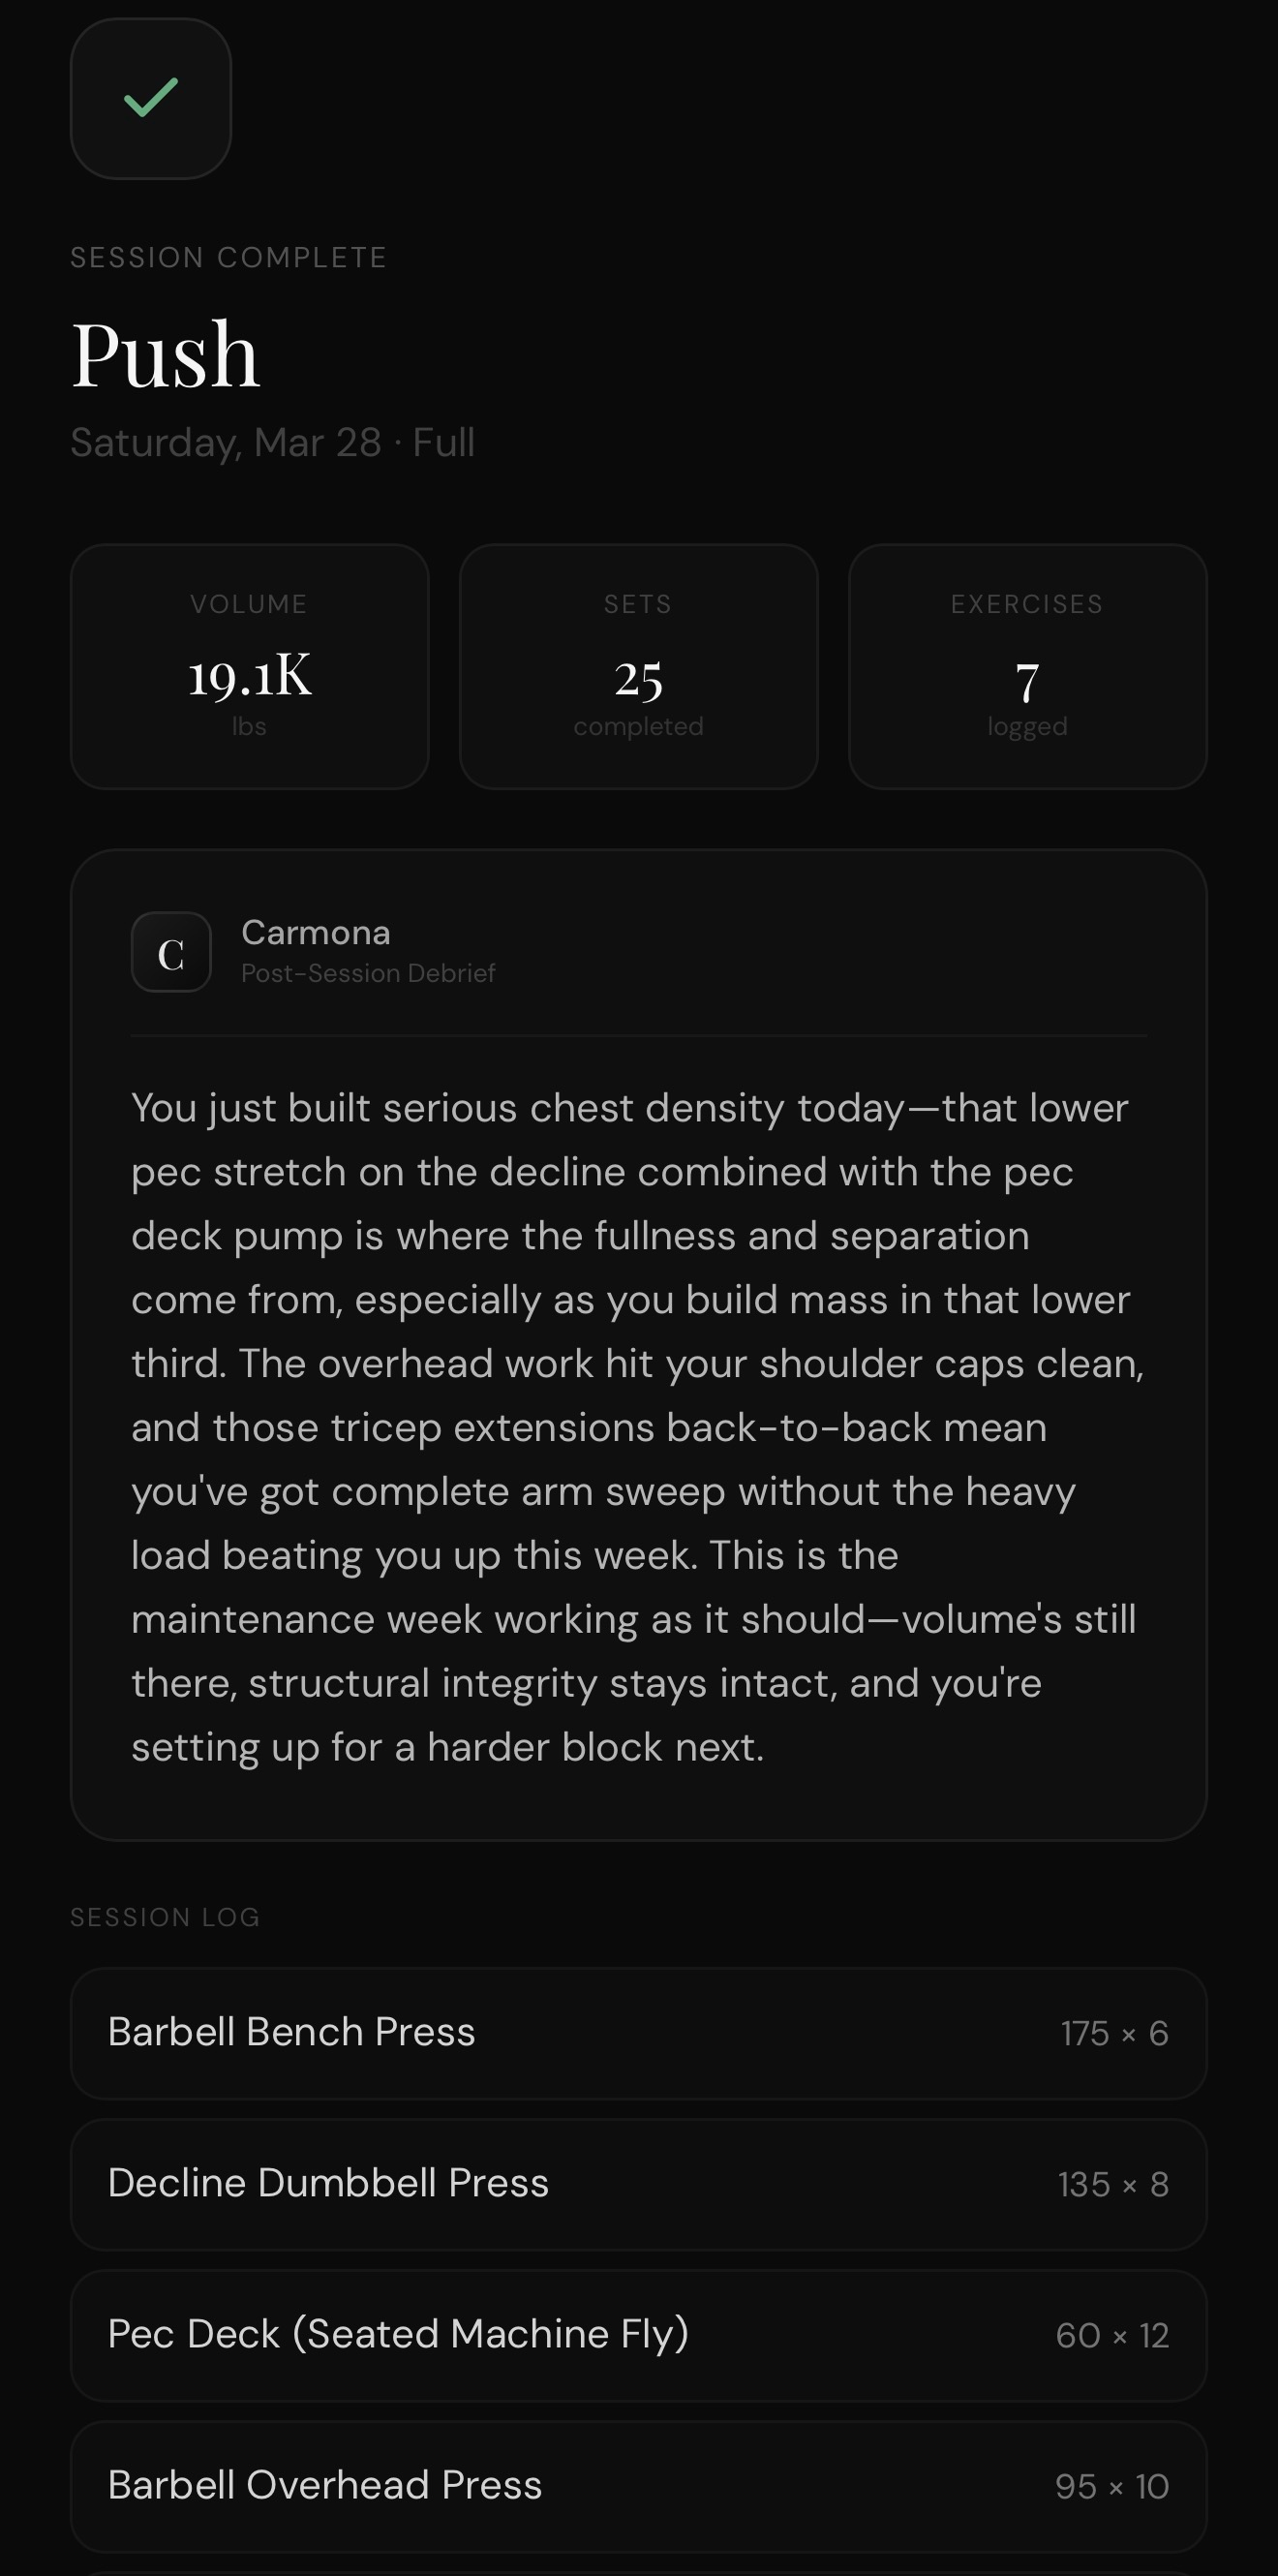
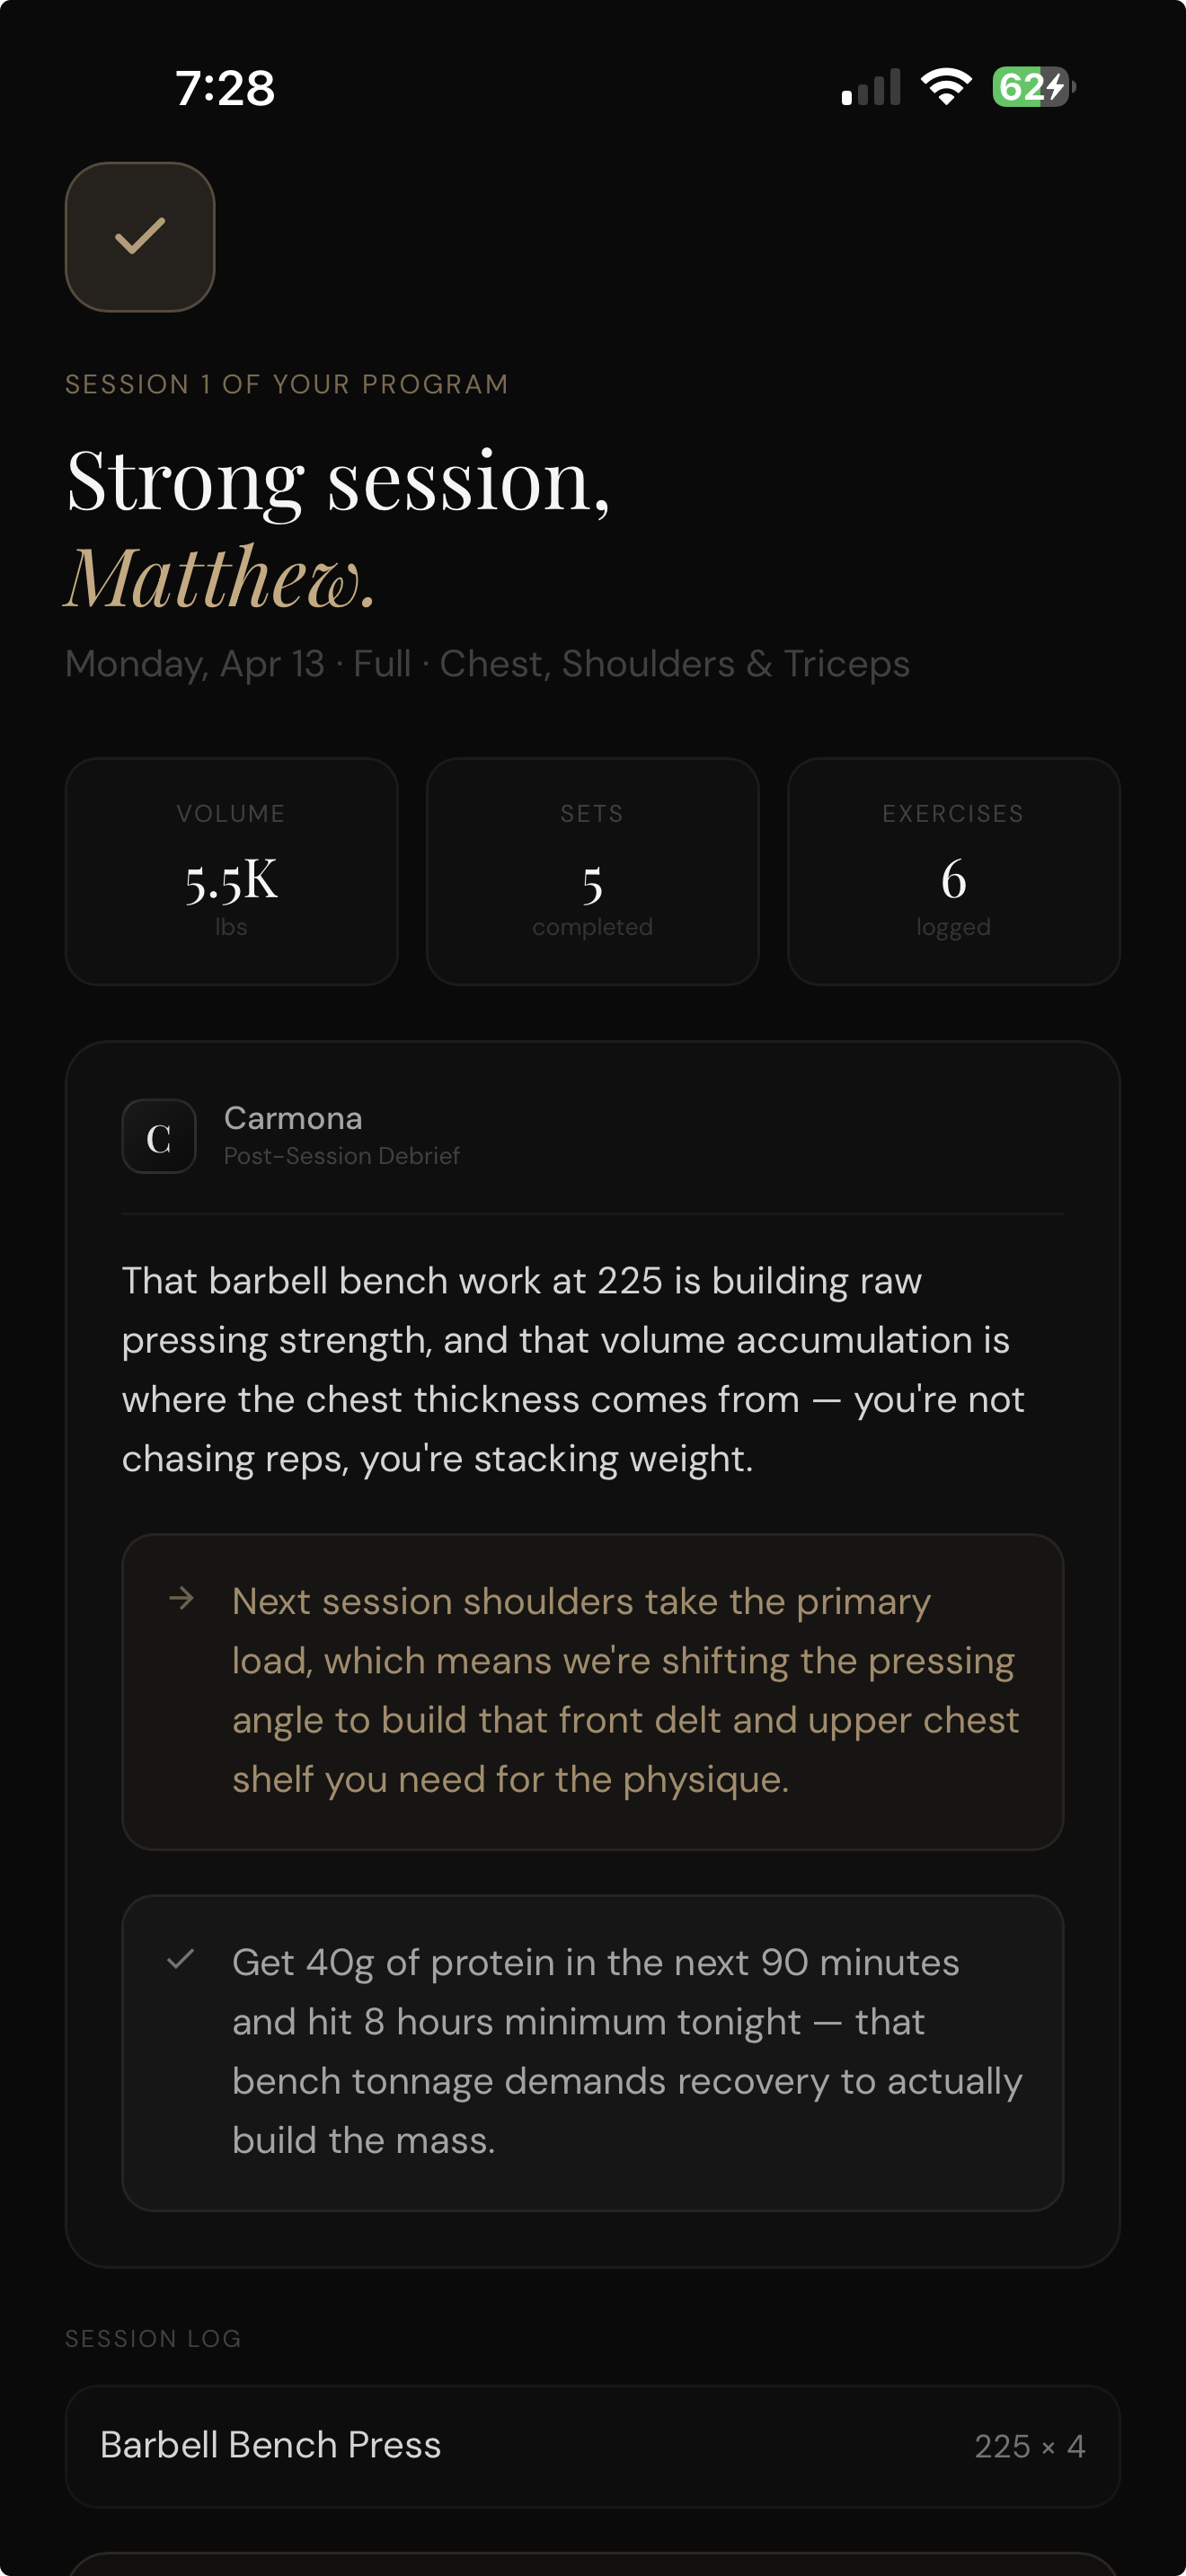
Landing page: social proof quote, larger screenshots, updated labels + images, fix IG link

diff --git a/src/CarmonaOS.jsx b/src/CarmonaOS.jsx
@@ -264,35 +264,35 @@ export default function CarmonaOS() {
         </section>
 
         {/* ═══ APP PEEK — 3 screenshots ═══ */}
-        <section style={{ padding: "48px 0 0", borderTop: "1px solid var(--c-glass-border)", overflow: "hidden" }}>
-          <div style={{ maxWidth: "800px", margin: "0 auto" }}>
-            <p style={{ fontSize: "10px", letterSpacing: "0.25em", textTransform: "uppercase", color: "var(--c-gold)", fontWeight: 500, textAlign: "center", marginBottom: "20px" }}>Inside the app</p>
-            <div style={{ display: "flex", gap: "16px", overflowX: "auto", padding: "0 24px 24px", scrollSnapType: "x mandatory", WebkitOverflowScrolling: "touch", msOverflowStyle: "none", scrollbarWidth: "none", justifyContent: "center" }}>
+        <section style={{ padding: "64px 0 0", borderTop: "1px solid var(--c-glass-border)", overflow: "hidden" }}>
+          <div style={{ maxWidth: "900px", margin: "0 auto" }}>
+            <p style={{ fontSize: "10px", letterSpacing: "0.25em", textTransform: "uppercase", color: "var(--c-gold)", fontWeight: 500, textAlign: "center", marginBottom: "28px" }}>Inside the app</p>
+            <div style={{ display: "flex", gap: "20px", overflowX: "auto", padding: "0 24px 32px", scrollSnapType: "x mandatory", WebkitOverflowScrolling: "touch", msOverflowStyle: "none", scrollbarWidth: "none", justifyContent: "center" }}>
             {[
-              { src: "/app-onboarding.png", label: "Your program. Built for you." },
-              { src: "/app-home.png", label: "Always know what's next." },
-              { src: "/app-debrief.png", label: "A coach's take after every session." },
+              { src: "/app-onboarding.png", label: "Personalized from day one." },
+              { src: "/app-home.png", label: "Every rep coached. Every set tracked." },
+              { src: "/app-debrief.png", label: "A real debrief after every session." },
             ].map((s, i) => (
-              <div key={i} style={{ flex: "0 0 220px", scrollSnapAlign: "center", textAlign: "center" }}>
-                <div style={{ borderRadius: "18px", overflow: "hidden", border: "1px solid rgba(255,255,255,0.08)", maxHeight: "380px", position: "relative" }}>
+              <div key={i} style={{ flex: "0 0 260px", scrollSnapAlign: "center", textAlign: "center" }}>
+                <div style={{ borderRadius: "20px", overflow: "hidden", border: "1px solid rgba(255,255,255,0.08)", maxHeight: "520px", position: "relative" }}>
                   <img src={s.src} alt={s.label} style={{ width: "100%", display: "block" }} />
-                  <div style={{ position: "absolute", bottom: 0, left: 0, right: 0, height: "60px", background: "linear-gradient(to top, var(--c-bg), transparent)" }} />
+                  <div style={{ position: "absolute", bottom: 0, left: 0, right: 0, height: "80px", background: "linear-gradient(to top, var(--c-bg), transparent)" }} />
                 </div>
-                <p style={{ fontSize: "11px", color: "var(--c-muted)", marginTop: "10px", fontFamily: "var(--f-body)" }}>{s.label}</p>
+                <p style={{ fontSize: "12px", color: "var(--c-muted)", marginTop: "14px", fontFamily: "var(--f-body)" }}>{s.label}</p>
               </div>
             ))}
           </div>
           </div>
         </section>
 
-        {/* ═══ FOUNDER QUOTE ═══ */}
+        {/* ═══ SOCIAL PROOF ═══ */}
         <section style={{ padding: "64px 24px", borderTop: "1px solid var(--c-glass-border)" }}>
           <div style={{ maxWidth: "600px", margin: "0 auto", textAlign: "center" }}>
             <blockquote style={{ fontFamily: "var(--f-display)", fontSize: "20px", fontStyle: "italic", color: "var(--c-cream)", lineHeight: 1.5, marginBottom: "16px" }}>
-              I built Carmona OS because nothing on the market was designed for how I actually live — time-compressed, results-oriented, and unwilling to lower the standard on either side.
+              "It's really acting like a personal trainer would. I don't want to research — I just want someone to tell me what to do."
             </blockquote>
             <p style={{ fontSize: "13px", color: "var(--c-muted)" }}>
-              <span style={{ color: "var(--c-cream)", fontWeight: 500 }}>Matthew Carmona</span>
+              <span style={{ color: "var(--c-cream)", fontWeight: 500 }}>Cody</span> · Carmona OS subscriber
             </p>
           </div>
         </section>
@@ -322,7 +322,7 @@ export default function CarmonaOS() {
             <div style={{ display: "flex", gap: "20px" }}>
               <a href="/privacy.html" style={{ fontSize: "11px", color: "var(--c-muted)", textDecoration: "none" }}>Privacy</a>
               <a href="/terms.html" style={{ fontSize: "11px", color: "var(--c-muted)", textDecoration: "none" }}>Terms</a>
-              <a href="https://www.instagram.com/carmonafitness" target="_blank" rel="noopener noreferrer" style={{ fontSize: "11px", color: "var(--c-muted)", textDecoration: "none" }}>Instagram</a>
+              <a href="https://www.instagram.com/carmona" target="_blank" rel="noopener noreferrer" style={{ fontSize: "11px", color: "var(--c-muted)", textDecoration: "none" }}>Instagram</a>
               <a href="mailto:[email redacted]" style={{ fontSize: "11px", color: "var(--c-muted)", textDecoration: "none" }}>Support</a>
             </div>
           </div>